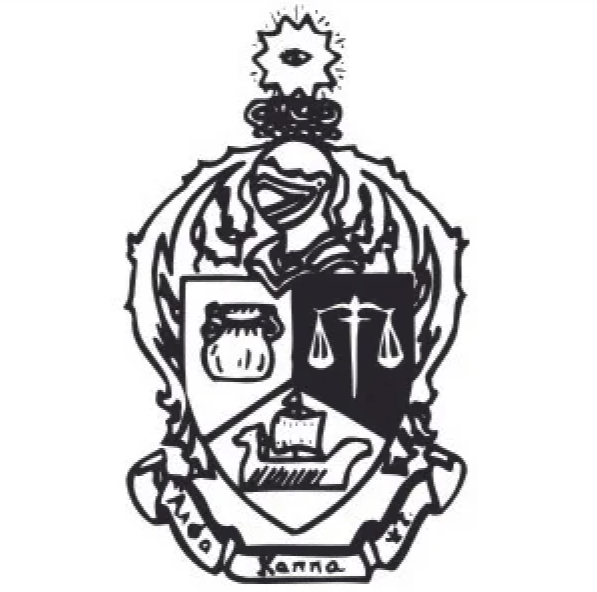
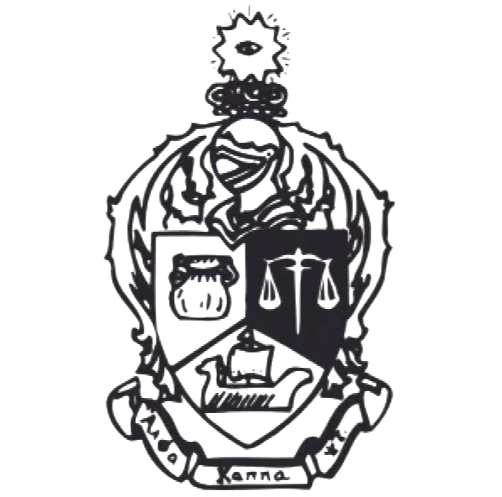
Swap crest for transparent version; drop multiply blend workaround

diff --git a/client/src/record/LandingScreen.jsx b/client/src/record/LandingScreen.jsx
@@ -44,7 +44,7 @@ export default function LandingScreen({ onEnter }) {
         <img
           src="/akpsi-crest.png"
           alt="Alpha Kappa Psi crest"
-          style={{ width: 140, height: 140, objectFit: 'contain', mixBlendMode: 'multiply', margin: '0 auto 30px', display: 'block' }}
+          style={{ width: 140, height: 140, objectFit: 'contain', margin: '0 auto 30px', display: 'block' }}
         />
         <div style={label({ fontSize: 11, letterSpacing: '.42em', color: 'var(--ncr-gold)', marginBottom: 22 })}>
           The Professional Fraternity · Boston University · MCMXVI

diff --git a/client/src/record/Masthead.jsx b/client/src/record/Masthead.jsx
@@ -31,7 +31,7 @@ export default function Masthead({
           onClick={() => onNav('index')}
           style={{ display: 'flex', alignItems: 'center', gap: 13, background: 'none', border: 'none', padding: 0, cursor: 'pointer', textAlign: 'left' }}
         >
-          <img src="/akpsi-crest.png" alt="" style={{ width: 30, height: 30, objectFit: 'contain', mixBlendMode: 'multiply' }} />
+          <img src="/akpsi-crest.png" alt="" style={{ width: 30, height: 30, objectFit: 'contain' }} />
           <span
             style={{
               fontFamily: 'var(--ncr-ui)',

diff --git a/client/src/record/GateScreen.jsx b/client/src/record/GateScreen.jsx
@@ -31,7 +31,7 @@ export default function GateScreen({ pw, onPwChange, onSubmit, loginError, gateH
       <img
         src="/akpsi-crest.png"
         alt="crest"
-        style={{ width: 128, height: 128, objectFit: 'contain', mixBlendMode: 'multiply', marginBottom: 26 }}
+        style={{ width: 128, height: 128, objectFit: 'contain', marginBottom: 26 }}
       />
       <div className="ncr-label ncr-label--gold" style={{ letterSpacing: '.4em', marginBottom: 14 }}>
         Established 1916 · Boston University
